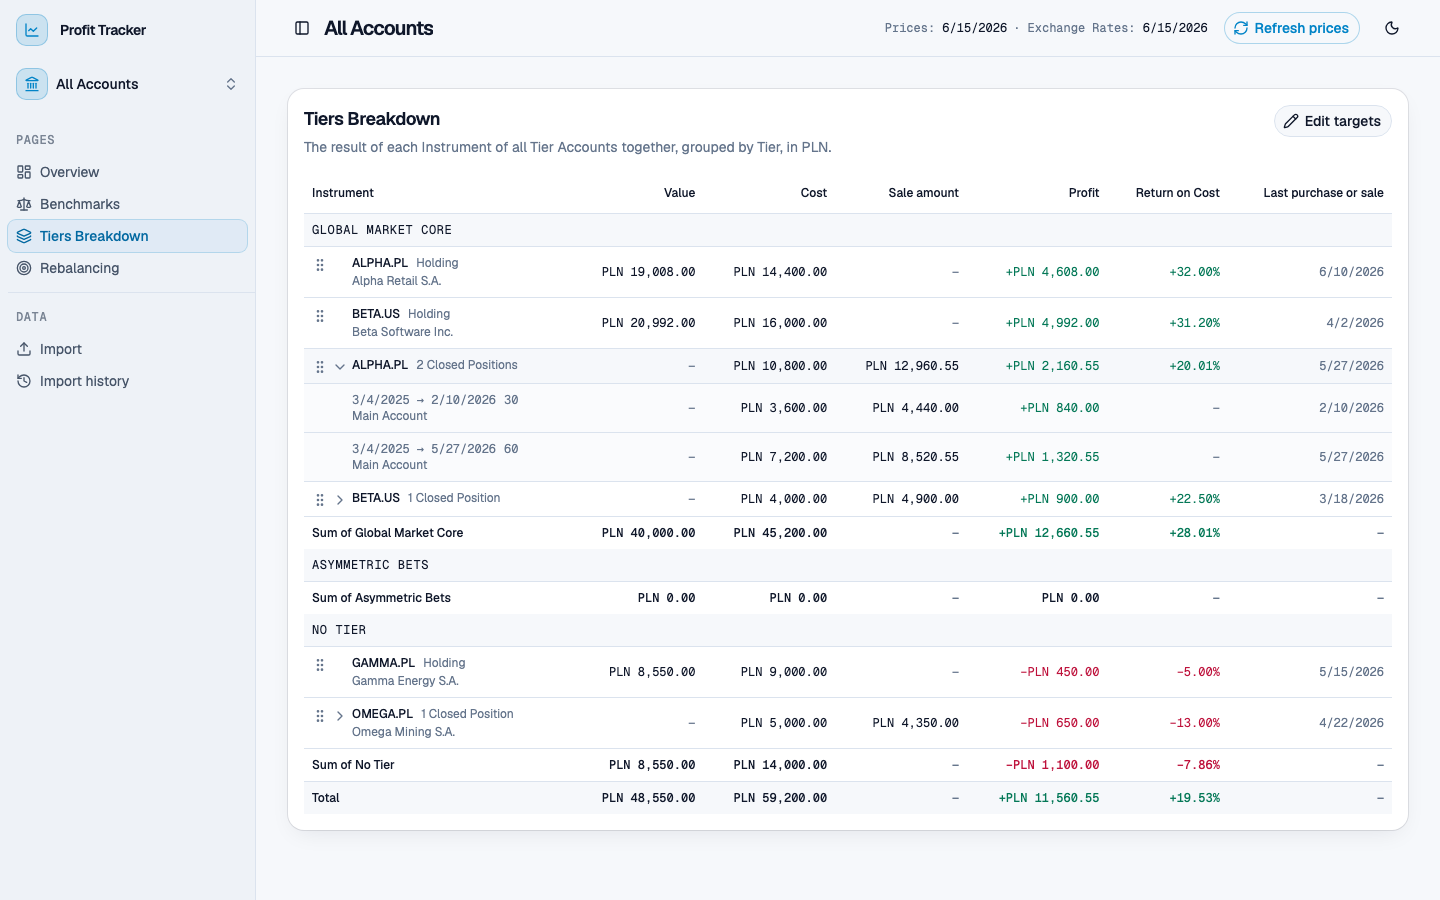
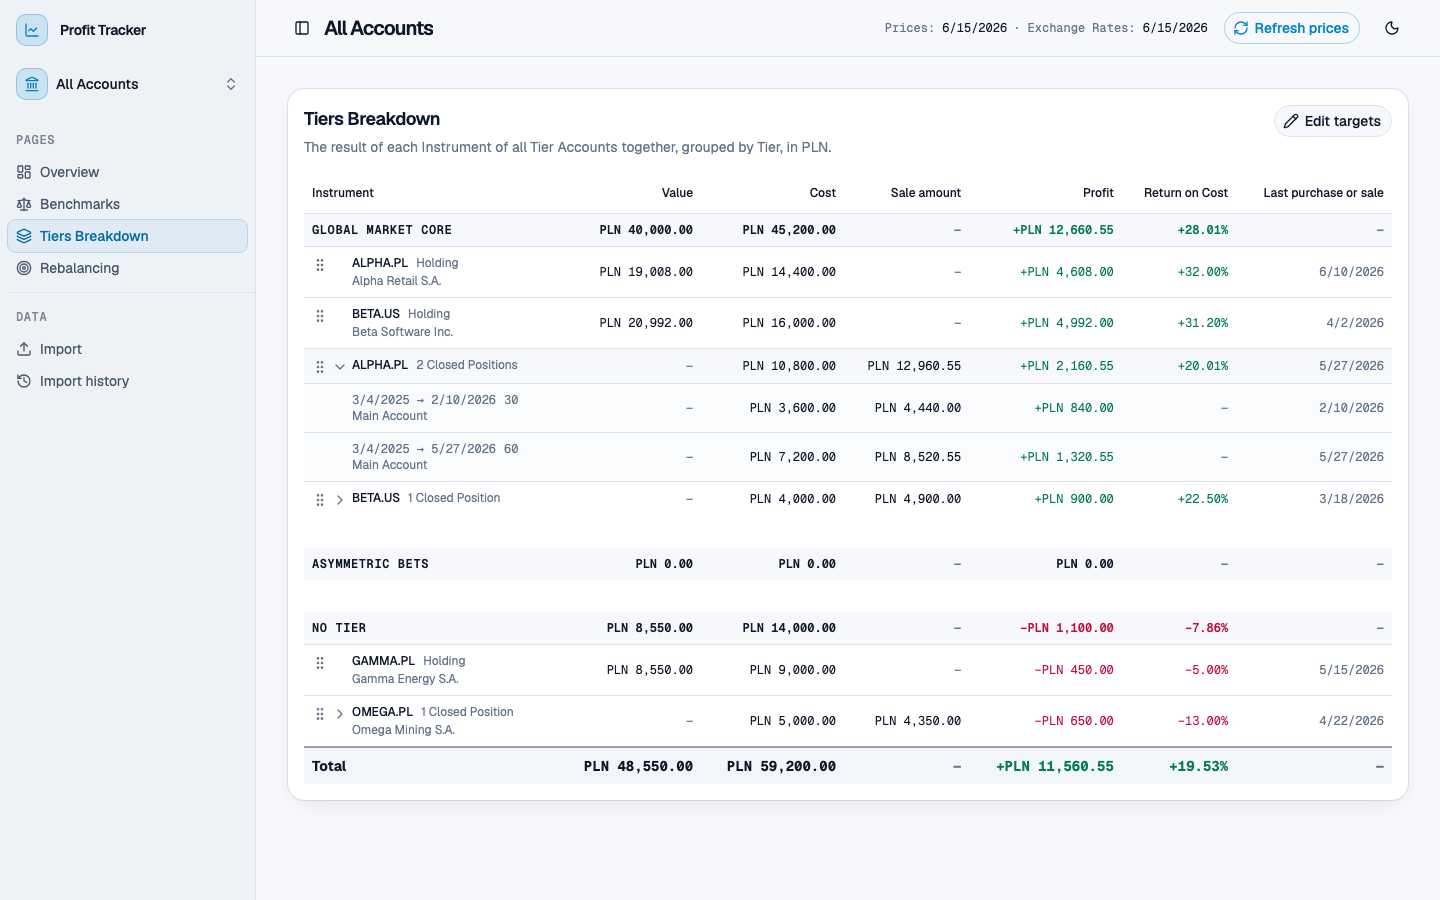
Show the Tier sums in the Tier rows
Refs #106

diff --git a/frontend/src/components/tiers-breakdown-table.tsx b/frontend/src/components/tiers-breakdown-table.tsx
@@ -167,8 +167,8 @@ function orderRows(
   return [...stored, ...rest]
 }
 
-// TiersBreakdownTable shows the Tiers in order and the "No Tier" group last. Each Tier has a group of Holding rows,
-// then a group of Closed Positions rows, then a sum row. The rows follow the date order until the user moves a row.
+// TiersBreakdownTable shows the Tiers in order and the "No Tier" group last. Each Tier row shows the Tier sums. Each Tier has a group of Holding rows,
+// then a group of Closed Positions rows. The rows follow the date order until the user moves a row.
 // A row moves only inside its group and its Tier. The Closed Positions row expands in place. The table has a total row.
 // The view of all Accounts uses the same table.
 export function TiersBreakdownTable({
@@ -287,8 +287,9 @@ export function TiersBreakdownTable({
               ))}
             </TableRow>
           </TableHeader>
-          {ordered.map(({ group, holding, closed }) => (
+          {ordered.map(({ group, holding, closed }, index) => (
             <GroupRows
+              first={index === 0}
               key={group.name}
               group={group}
               holding={holding}
@@ -299,7 +300,12 @@ export function TiersBreakdownTable({
             />
           ))}
           <TableFooter>
-            <SumRow label="Total" sum={breakdown.total} currency={currency} />
+            <SumRow
+              label="Total"
+              sum={breakdown.total}
+              currency={currency}
+              variant="total"
+            />
           </TableFooter>
         </Table>
       </DndContext>
@@ -314,9 +320,10 @@ type GroupRowsProps = {
   currency: string
   expanded: ReadonlySet<string>
   onToggle: (key: string) => void
+  first: boolean
 }
 
-// GroupRows shows the heading row, the Holding rows, the Closed Positions rows and the sum row of one Tier.
+// GroupRows shows the Tier row with the Tier sums, the Holding rows and the Closed Positions rows of one Tier.
 function GroupRows({
   group,
   holding,
@@ -324,19 +331,23 @@ function GroupRows({
   currency,
   expanded,
   onToggle,
+  first,
 }: GroupRowsProps) {
   const holdingSlot = slotOf(group, "holding")
   const closedSlot = slotOf(group, "closed")
   return (
     <TableBody>
-      <TableRow className="bg-muted/50 hover:bg-muted/50">
-        <TableCell
-          colSpan={headers.length}
-          className="font-mono text-xs tracking-wider uppercase"
-        >
-          {group.name}
-        </TableCell>
-      </TableRow>
+      {!first && (
+        <TableRow aria-hidden className="h-8 border-0 hover:bg-transparent">
+          <TableCell colSpan={headers.length} className="p-0" />
+        </TableRow>
+      )}
+      <SumRow
+        label={group.name}
+        sum={group.sum}
+        currency={currency}
+        variant="tier"
+      />
       <SortableContext
         items={holding.map((i) => rowId(holdingSlot, i.ticker))}
         strategy={verticalListSortingStrategy}
@@ -371,11 +382,6 @@ function GroupRows({
           )
         })}
       </SortableContext>
-      <SumRow
-        label={`Sum of ${group.name}`}
-        sum={group.sum}
-        currency={currency}
-      />
     </TableBody>
   )
 }
@@ -594,20 +600,34 @@ function ClosedRows({
   )
 }
 
-// SumRow shows a sum of a Tier or of the whole table. Its Return on Cost uses the cost of the open Lots with a price
+// SumRow shows the sums in the Tier row, or in the Total row of the whole table. Its Return on Cost uses the cost of the open Lots with a price
 // and of the Closed Positions.
 function SumRow({
   label,
   sum,
   currency,
+  variant,
 }: {
   label: string
   sum: BreakdownSum
   currency: string
+  variant: "tier" | "total"
 }) {
   return (
-    <TableRow className="font-medium">
-      <TableCell>{label}</TableCell>
+    <TableRow
+      className={cn(
+        variant === "tier" && "bg-muted/50 font-semibold hover:bg-muted/50",
+        variant === "total" &&
+          "border-t-2 border-foreground/40 bg-muted/50 text-sm font-bold hover:bg-muted/50"
+      )}
+    >
+      <TableCell
+        className={
+          variant === "tier" ? "font-mono tracking-wider uppercase" : ""
+        }
+      >
+        {label}
+      </TableCell>
       <NumberCell>
         <Amount amount={sum.value} currency={currency} />
       </NumberCell>
